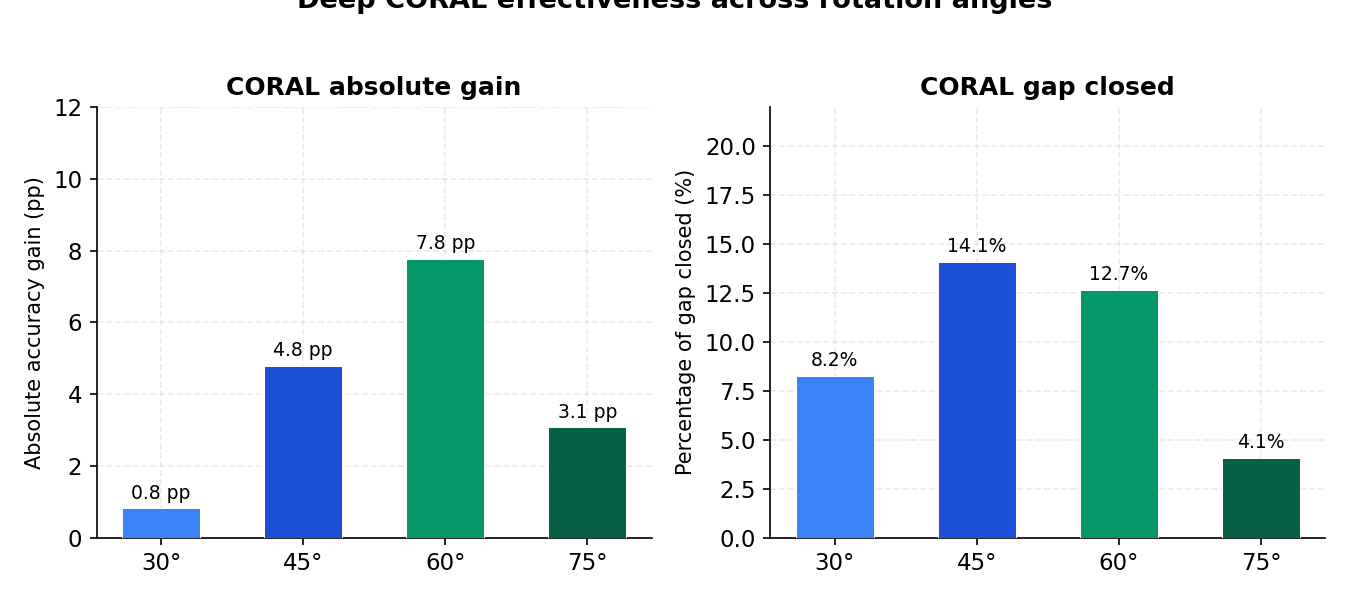
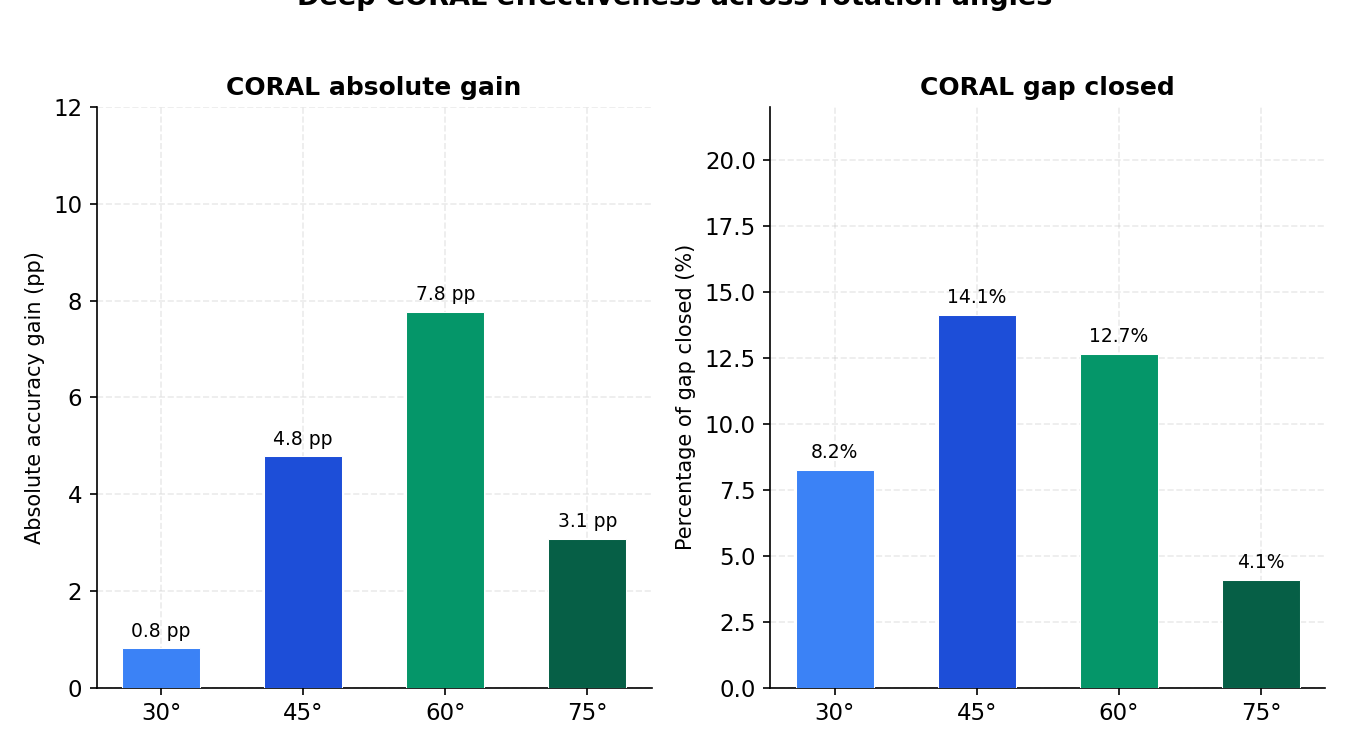
readme

diff --git a/Rotated_MNIST_ex/plot_results.py b/Rotated_MNIST_ex/plot_results.py
@@ -159,7 +159,7 @@ def plot_gap_curve():
 # =============================================================================
 
 def plot_coral_gain():
-    fig, (ax1, ax2) = plt.subplots(1, 2, figsize=(9, 4))
+    fig, (ax1, ax2) = plt.subplots(1, 2, figsize=(9, 5))
 
     coral_angles = sorted(CORAL.keys())
     x = np.arange(len(coral_angles))

diff --git a/Rotated_MNIST_ex/README.md b/Rotated_MNIST_ex/README.md
@@ -1,0 +1,10 @@
+This here is a part of a project I did for my seminar named "Trustworthy AI", which is all about us humans trusting Artificial Intelligence in various tasks, some mundane (like text/media generation) and others critical (like auto-piloted cars and health monitors).
+
+As you probably know, since you are reading this markdown file, detecting distribution shifts is not always sufficient. In many situations, we need to adapt a model trained on a source domain so that it performs better on a target domain.
+
+The objective was to train a model on a labeled source domain, adapt it using target‑domain data, and evaluate whether target‑domain performance improves.
+
+In this particular folder lies the models I used, the datasets and the 3 main trainings.
+Basically I trained a source on normal MNIST, tested it on a rotated version of the same dataset, ran it through an adaptation method (CORAL) and re-ran it on the same rotated angle as the first test.
+
+All the results are hardcoded in the plots but the experiment logs are recorded in the outputs folder. 
